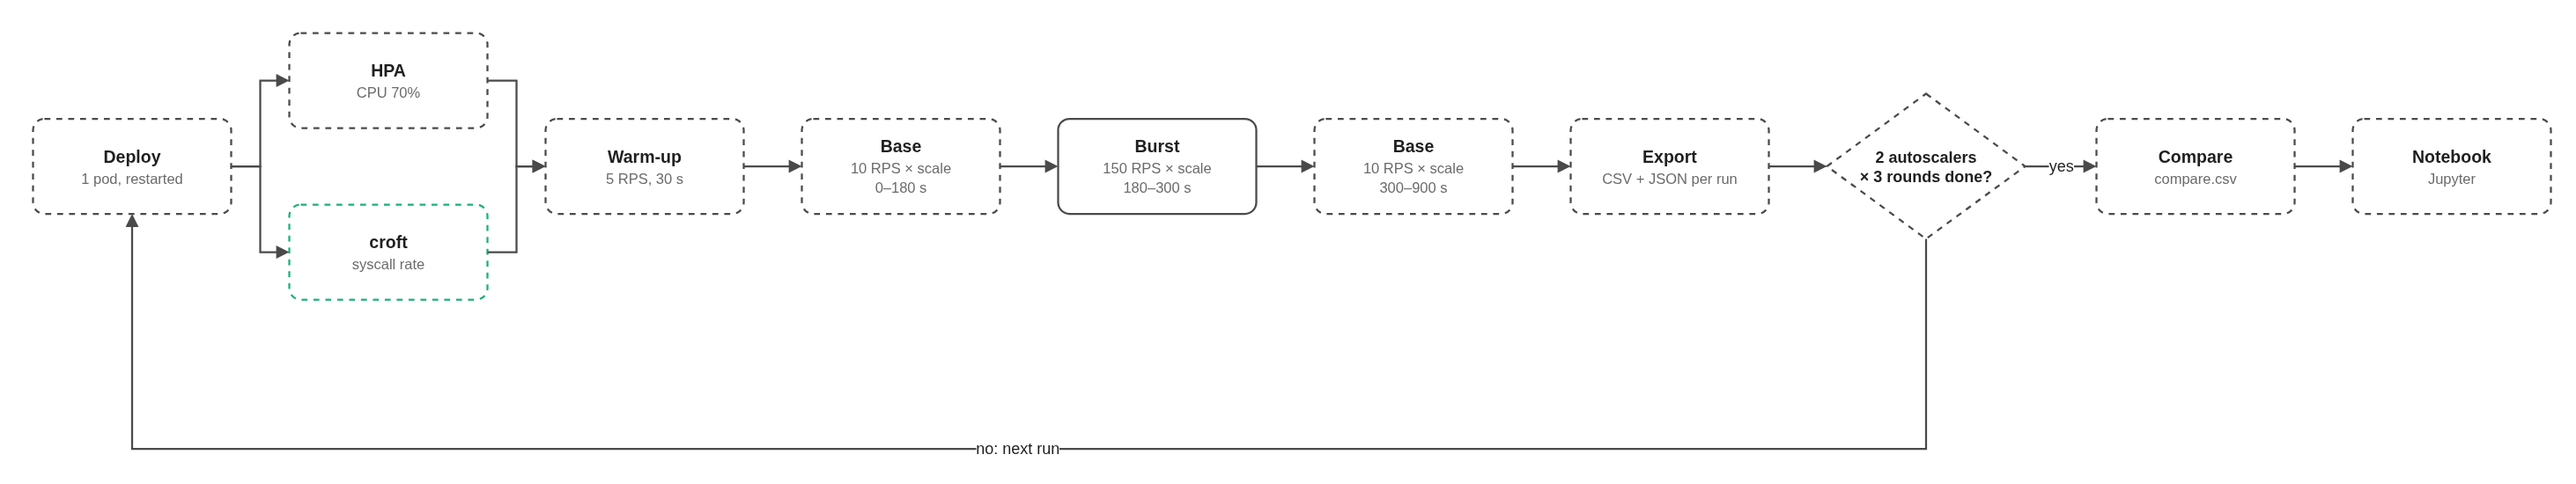
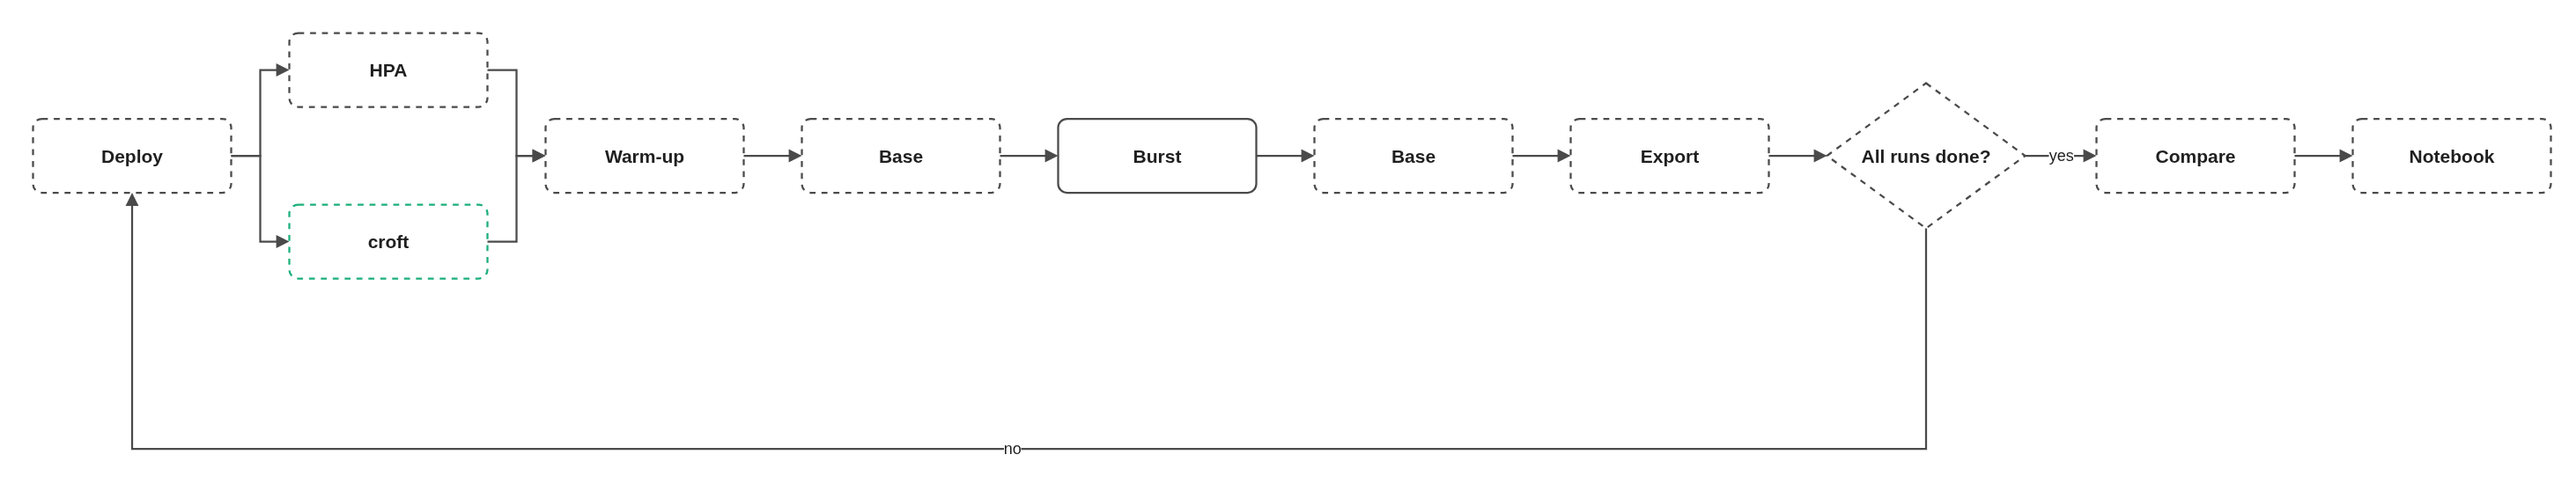
docs: state the reaction claim and remove small text from diagrams (#67)

diff --git a/README.md b/README.md
@@ -2,11 +2,11 @@
 
 # Croft
 
-**Proactive autoscaling from what processes do in the kernel**
+**Autoscaling that reacts to what processes do in the kernel**
 
 Read each pod's request rate through eBPF and its CPU pressure from cgroups,
-notice a workload burst within seconds, and add replicas before the application
-slows down.
+notice a workload burst within seconds, and add replicas earlier than a
+CPU-based autoscaler.
 
 [![License](https://img.shields.io/badge/License-Apache%202.0-blue.svg)](LICENSE)
 [![Stars](https://img.shields.io/github/stars/danielcristho/croft?style=flat)](https://github.com/danielcristho/croft/stargazers)
@@ -41,7 +41,7 @@ seen from inside the node. Multiplied by the CPU each request costs, it gives th
 replicas the burst will need, within one poll of its start.
 
 <p align="center">
-  <img src="assets/architecture.svg" width="860" alt="Architecture: the web app's syscalls and cgroup pressure are read in the kernel through eBPF by a collector on each node. The collector writes a dataset and will feed a burst detector, a scaler and OpenTelemetry towards Prometheus. The HPA scales the same pods from CPU utilization. Kernel, collector and dataset are built.">
+  <img src="assets/architecture.svg" width="860" alt="Architecture: the kernel reports a web app's syscalls through eBPF to a collector on each node. The collector writes a dataset and serves metrics to Prometheus and to croft scale, which sets the number of pods.">
 </p>
 
 ## What it reads
